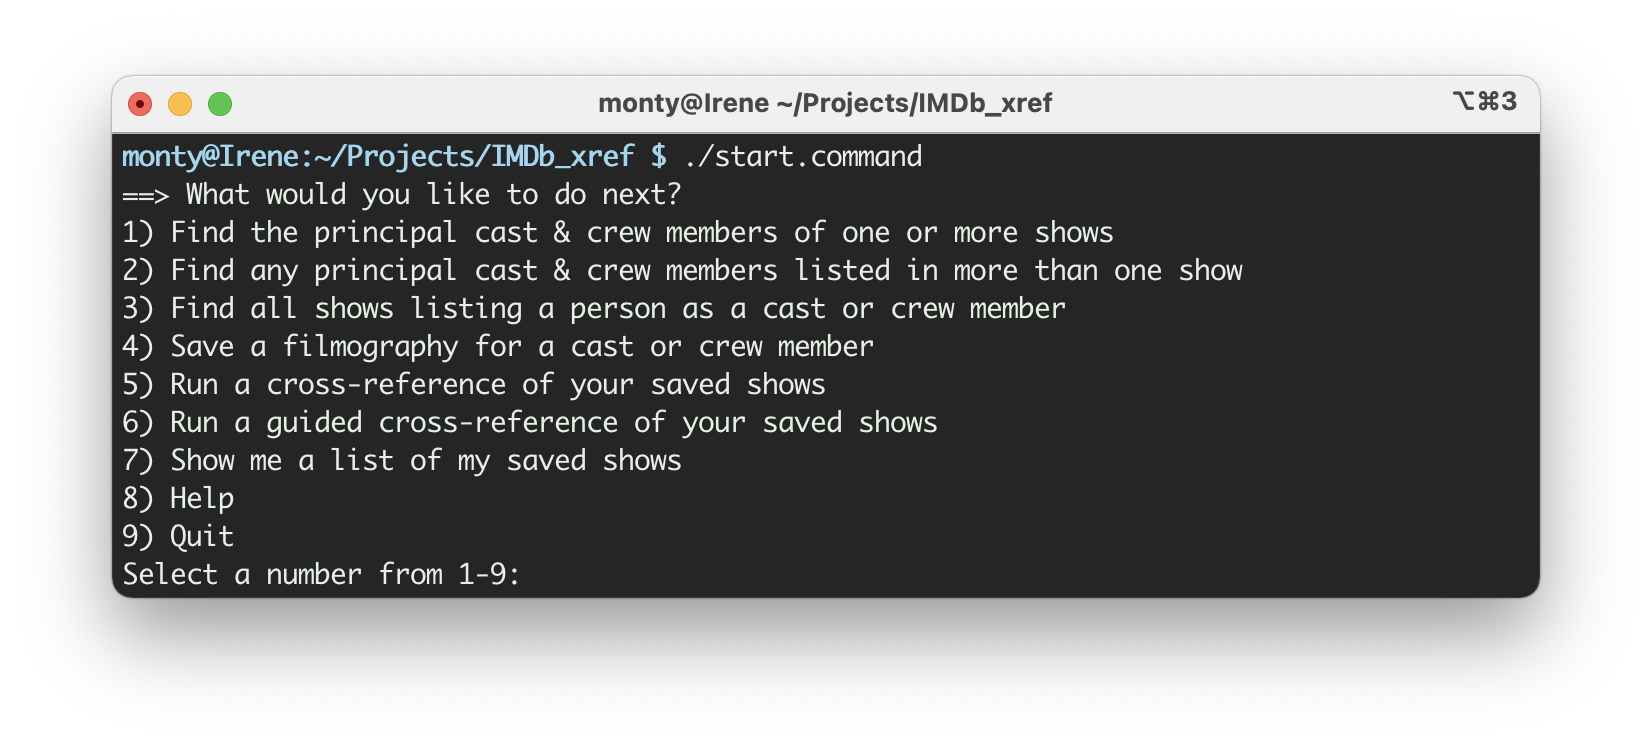
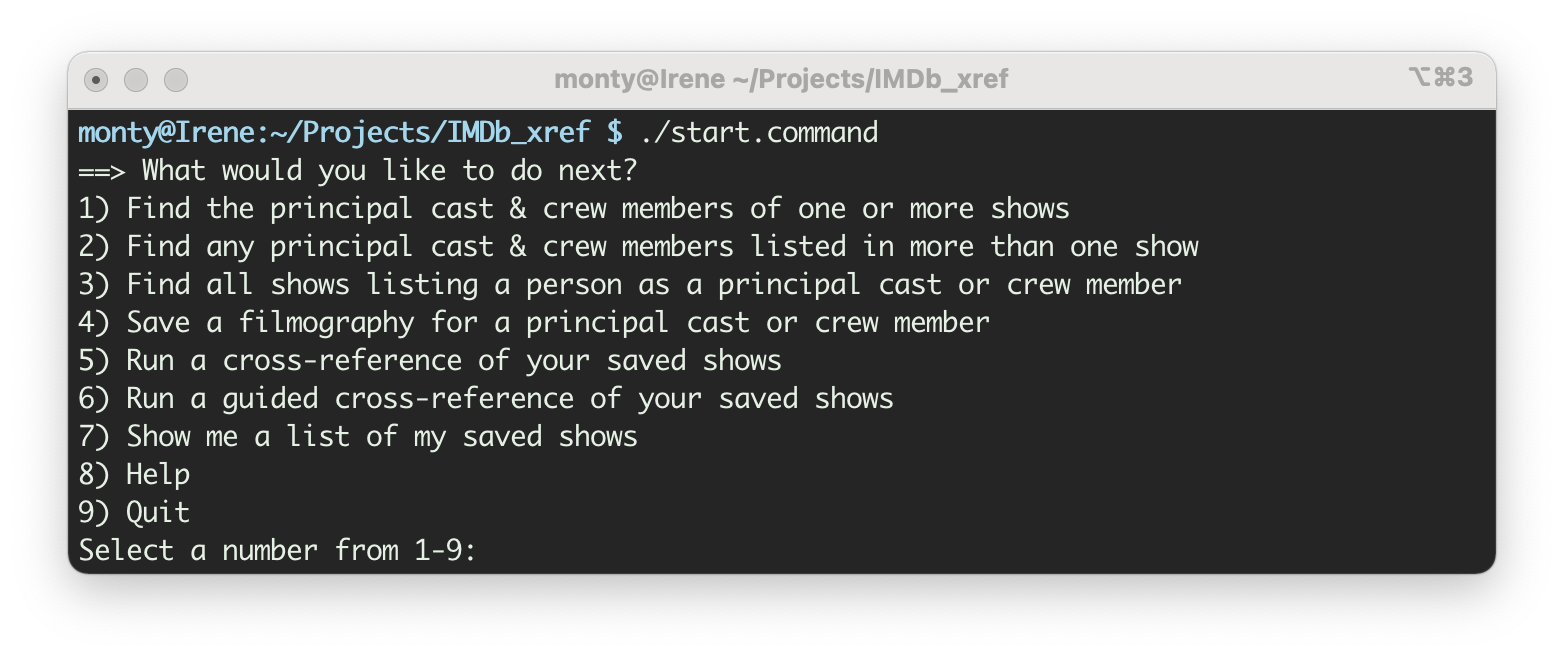
Minor rewording

Changed region(s): [[0.0307, 0.0912, 0.9821, 0.8815]]

diff --git a/README.md b/README.md
@@ -71,9 +71,9 @@ that the actress you were looking for is Elizabeth Debicki.
 If you like those shows, save them to your favorites. It will enable some
 advanced features we'll cover later.
 
-Then select `Find all shows listing a person as a cast or crew member`. Enter
-**`Elizabeth Debicki`**. It will find 17 titles listing Elizabeth Debicki as:
-actress.
+Then select `Find all shows listing a person as a principal cast or crew
+member`. Enter **`Elizabeth Debicki`**. It will find 17 titles listing Elizabeth
+Debicki as: actress.
 
 ![Debicki as actress](docs/Screenshots/Debicki.png?raw=true)
 
@@ -121,8 +121,8 @@ search term.
 The "Principal cast & crew" section contains all rows with a match for **any**
 term. It can be quite long for complex queries.
 
-The "... listed more than once" section contains only rows with names found in
-more than one show. It can be empty.
+The "... listed in more than one" section contains only rows with names
+found in more than one show. It can be empty.
 
 Selecting #2 `Find any principal cast & crew members listed in more than one
 show` will hide the "Principal cast & crew" section. Running identical queries
@@ -253,9 +253,9 @@ only saves actors, actresses, writers, directors, and producers. To save all
 types run `generateXrefData.sh -a` at any time. You may want to also use the
 `-d` or `-f` options to prevent the larger results from being overwritten.
 
-Queries for all shows listing a person as a cast or crew member can include
-results you might not expect, e.g. videoGame or radioSeries. For each type, you
-will be asked if you want to display those results.
+Queries for all shows listing a person as a principal cast or crew member can
+include results you might not expect, e.g. videoGame or radioSeries. For each
+type, you will be asked if you want to display those results.
 
 ## Compatibility
 
